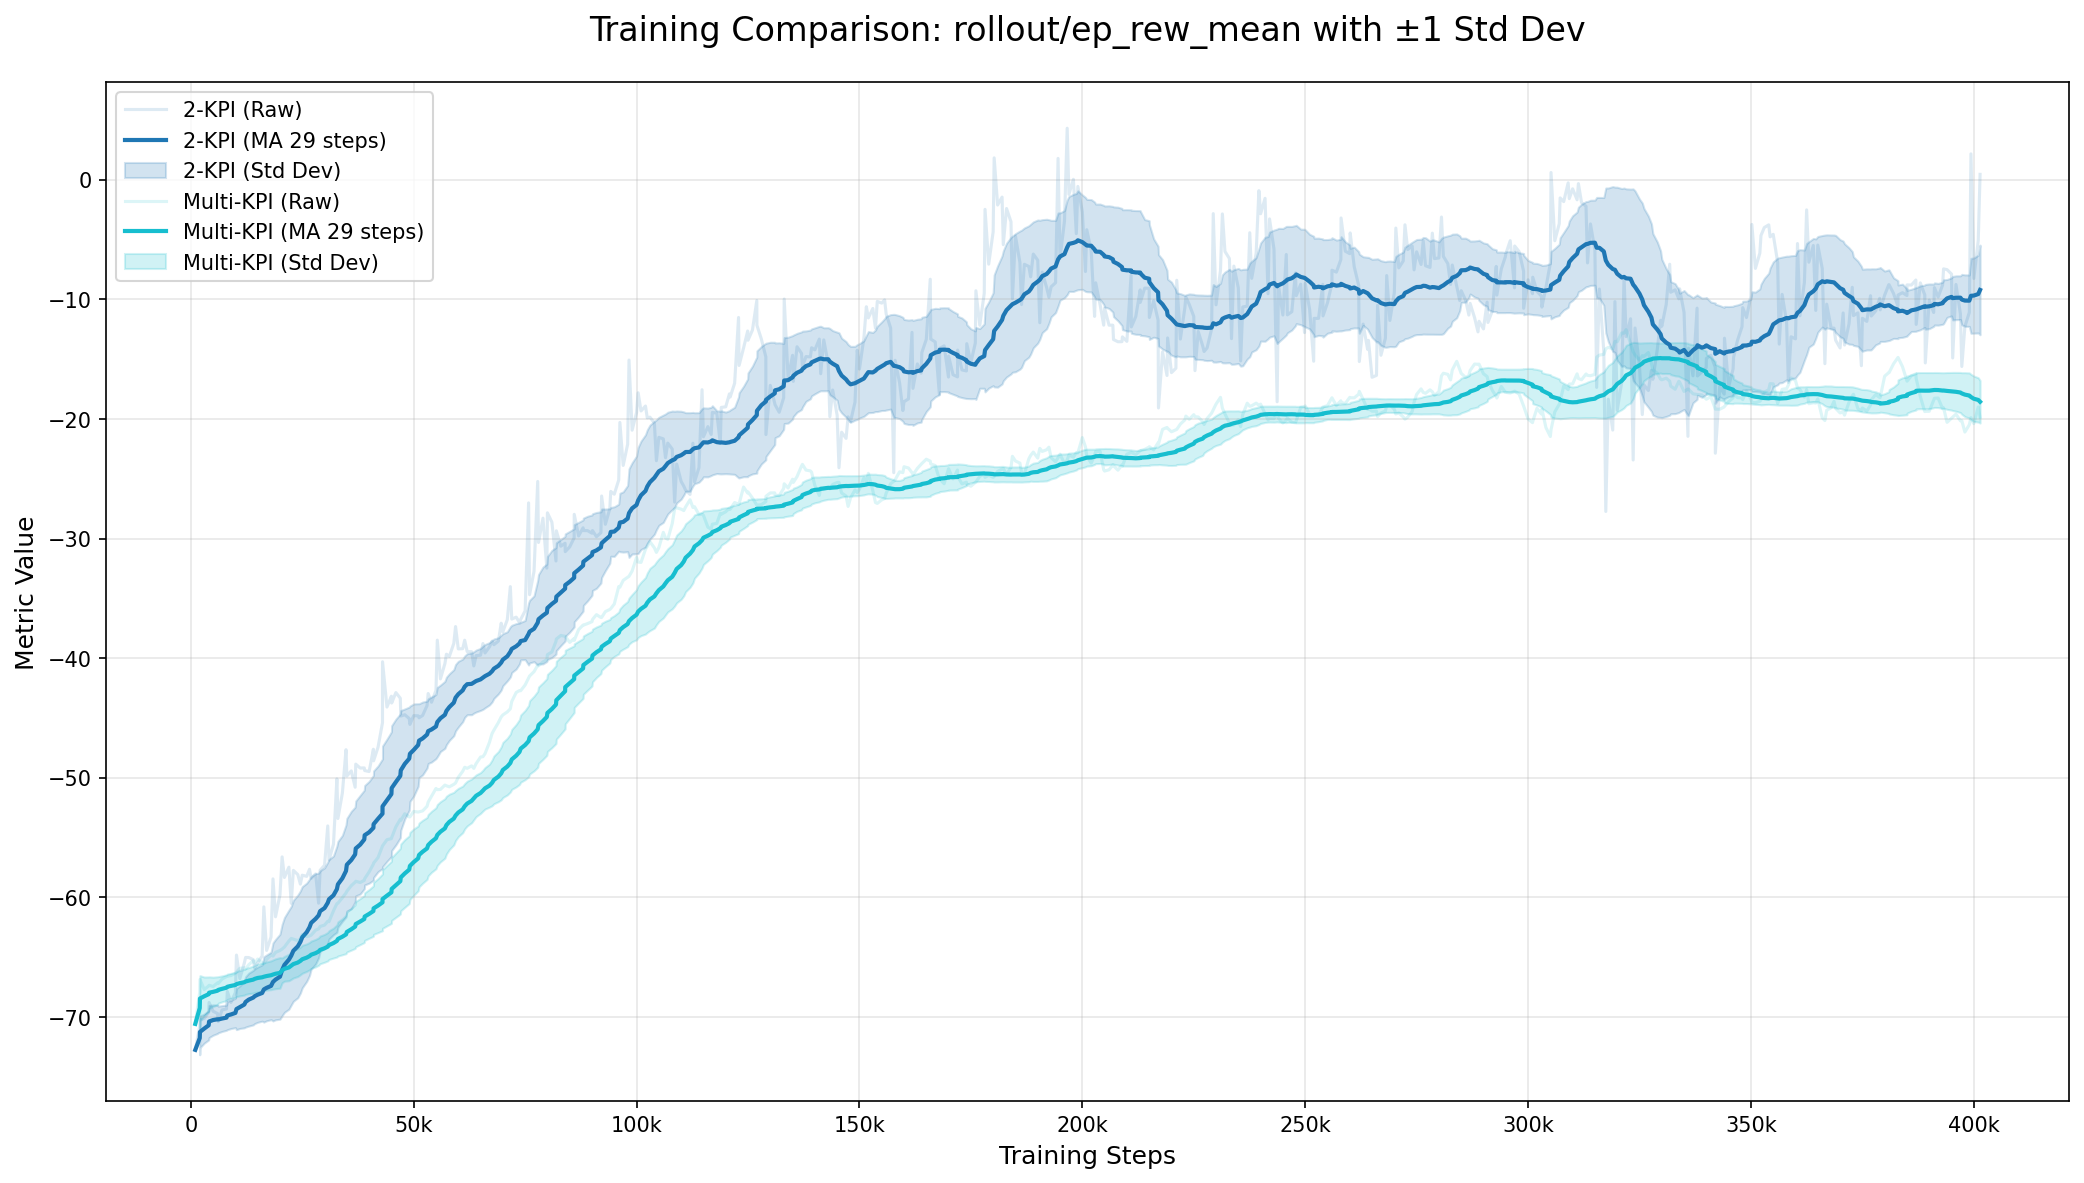
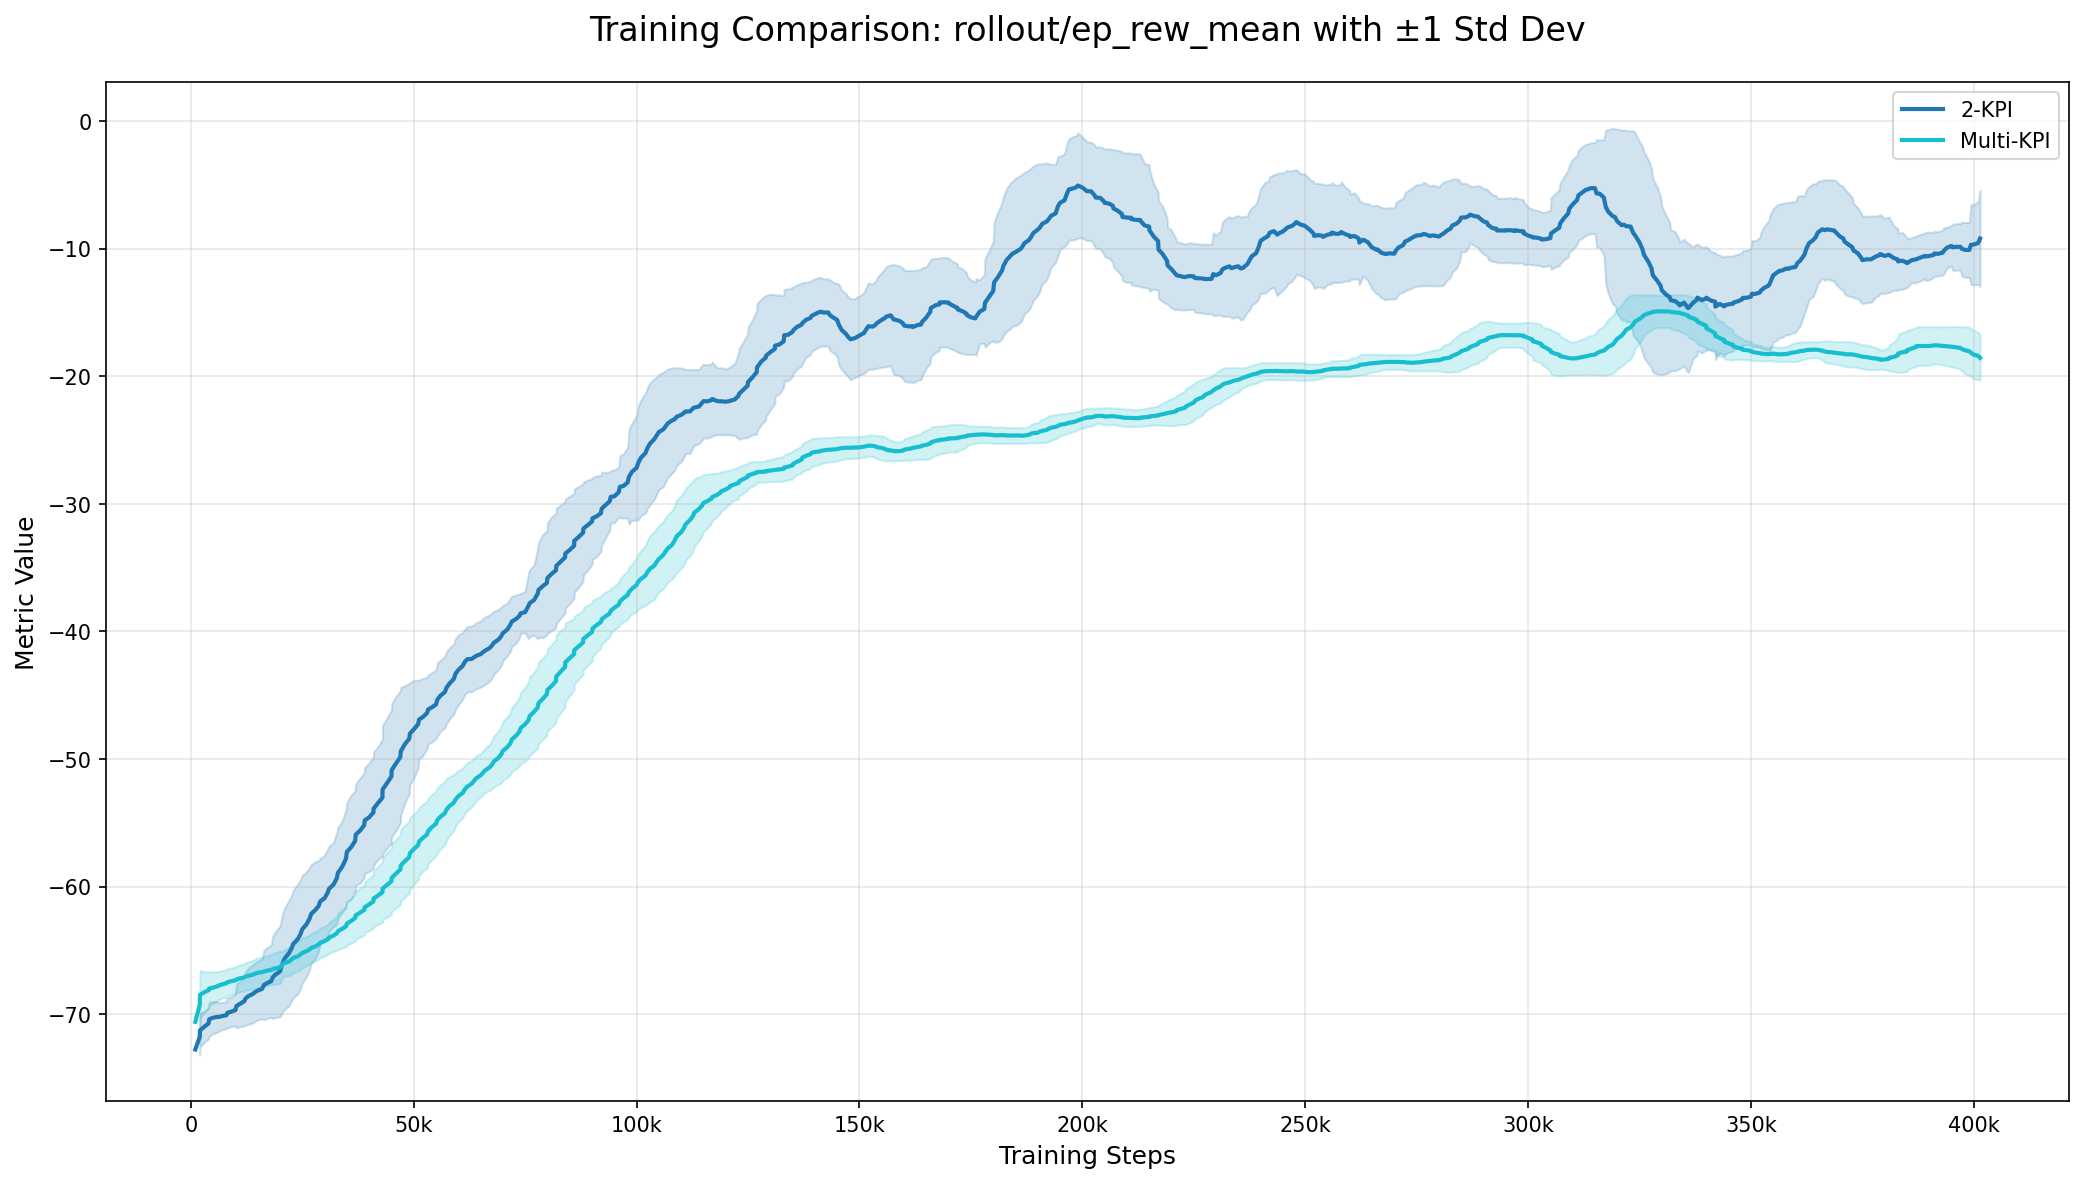
refactor: simplify training plot visualization by removing raw data display

diff --git a/scripts/plot_training.py b/scripts/plot_training.py
@@ -103,12 +103,10 @@ def plot_training_comparison(log_dirs, labels, metric='rollout/ep_rew_mean'):
         df_ma = df[metric].rolling(window=window, min_periods=1).mean()
         df_std = df[metric].rolling(window=window, min_periods=1).std()
         
-        # Plot
-        plt.plot(df['step'], df[metric], alpha=0.15, color=colors(i), label=f'{label} (Raw)')
+        # Plot moving average with standard deviation
         plt.plot(df['step'], df_ma, linewidth=2, color=colors(i),
-                label=f'{label} (MA {window} steps)')
-        plt.fill_between(df['step'], df_ma - df_std, df_ma + df_std, alpha=0.2, color=colors(i),
-                         label=f'{label} (Std Dev)')
+                label=f'{label}')
+        plt.fill_between(df['step'], df_ma - df_std, df_ma + df_std, alpha=0.2, color=colors(i))
     
     # Formatting
     plt.title(f'Training Comparison: {metric} with ±1 Std Dev', fontsize=16, pad=20)
@@ -194,9 +192,8 @@ def plot_kpi_metrics(log_dir, title_suffix=""):
         window = max(1, len(df) // 20)
         df[f'{metric}_ma'] = df[metric].rolling(window=window, min_periods=1).mean()
         
-        # Plot
-        ax.plot(df['step'], df[metric], alpha=0.3, label='Raw')
-        ax.plot(df['step'], df[f'{metric}_ma'], linewidth=2, label=f'MA {window} steps')
+        # Plot moving average
+        ax.plot(df['step'], df[f'{metric}_ma'], linewidth=2, label=f'Moving Average ({window} steps)')
         
         ax.set_title(metric)
         ax.grid(True, alpha=0.3)
